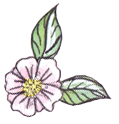
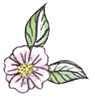
Made the post flower smaller and adjusted the position.

diff --git a/assets/sass/content/main/_posts-pages.scss b/assets/sass/content/main/_posts-pages.scss
@@ -154,8 +154,8 @@ section.error-404,
                 width: 119px;
                 height: 124px;
                 position: absolute;
-                right: -65px;
-                bottom: -25px;
+                right: -53px;
+                bottom: -36px;
             }
         }
     }

diff --git a/style.css b/style.css
@@ -921,8 +921,8 @@ section.error-404,
         width: 119px;
         height: 124px;
         position: absolute;
-        right: -65px;
-        bottom: -25px; } }
+        right: -53px;
+        bottom: -36px; } }
   article.post .tagged,
   article.page .tagged,
   section.error-404 .tagged,
